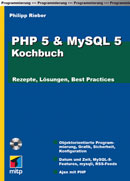
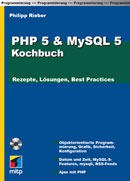
Fix cover edges with drop-shadow and trimmed scans, update job title

diff --git a/public/index.html b/public/index.html
@@ -74,7 +74,7 @@
         <div class="row">
           <h2 class="row__head">Jobs</h2>
           <div class="row__body prose">
-            <p>I’m working as a Senior Software Engineer at <a href="https://ottonova.de/" rel="noopener">ottonova</a>, the first digital private health insurance in Germany. Before that, I worked at Paymill (payments) and at <a href="http://inviqa.com/" rel="noopener">Inviqa</a> (agency). I evaluated an InsurTech startup idea at <a href="https://www.werk1.com/" rel="noopener">WERK1</a> and worked for seven years as a web developer, team lead and deputy managing director of an internet agency (Onemedia GmbH). I also advise and support a few other projects.</p>
+            <p>I’m working as a Staff Software Engineer at <a href="https://ottonova.de/" rel="noopener">ottonova</a>, the first digital private health insurance in Germany. Before that, I worked at Paymill (payments) and at <a href="http://inviqa.com/" rel="noopener">Inviqa</a> (agency). I evaluated an InsurTech startup idea at <a href="https://www.werk1.com/" rel="noopener">WERK1</a> and worked for seven years as a web developer, team lead and deputy managing director of an internet agency (Onemedia GmbH). I also advise and support a few other projects.</p>
           </div>
         </div>
       </section>
@@ -275,8 +275,8 @@
             <p class="prose">Every now and then I write articles and books about software development or translate from English. In everyday work I’m also writing a lot for case studies, references or documentation. Occasionally I blog at <a class="nowrap" href="http://blog.philipp-rieber.net" rel="noopener">blog.philipp-rieber.net</a>.</p>
             <ul class="shelf" aria-label="Book and magazine covers">
               <li><a href="https://www.amazon.de/PHP-MySQL-Schnelleinstieg-Programmieren-Vorkenntnisse/dp/3747503950" rel="noopener"><img src="/img/covers/schnelleinstieg-2021.jpg" width="130" height="184" alt="Cover of PHP &amp; MySQL Schnelleinstieg, 2021" loading="lazy" /></a></li>
-              <li><a href="https://entwickler.de/magazine-ebooks/php-magazin/php-magazin-52015" rel="noopener"><img src="/img/covers/phpmagazin-2015-05.jpg" width="130" height="183" alt="Cover of PHPmagazin 5.15" loading="lazy" /></a></li>
-              <li><a href="https://entwickler.de/magazine-ebooks/php-magazin/php-magazin-32015" rel="noopener"><img src="/img/covers/phpmagazin-2015-03.jpg" width="130" height="184" alt="Cover of PHPmagazin 3.15" loading="lazy" /></a></li>
+              <li><a href="https://entwickler.de/magazine-ebooks/php-magazin/php-magazin-52015" rel="noopener"><img src="/img/covers/phpmagazin-2015-05.jpg" width="130" height="182" alt="Cover of PHPmagazin 5.15" loading="lazy" /></a></li>
+              <li><a href="https://entwickler.de/magazine-ebooks/php-magazin/php-magazin-32015" rel="noopener"><img src="/img/covers/phpmagazin-2015-03.jpg" width="130" height="181" alt="Cover of PHPmagazin 3.15" loading="lazy" /></a></li>
               <li><a href="http://discoveringdocker.com/de" rel="noopener"><img src="/img/covers/docker-entdecken.png" width="152" height="184" alt="Cover of Docker Entdecken" loading="lazy" /></a></li>
               <li><a href="http://www.amazon.de/Dynamische-Webseiten-Praxis-JavaScript-Professional/dp/3826617827" rel="noopener"><img src="/img/covers/dynamische-webseiten-2009.jpg" width="130" height="180" alt="Cover of Dynamische Webseiten in der Praxis, 2nd edition, 2009" loading="lazy" /></a></li>
               <li><a href="http://www.amazon.de/PHP-MySQL-Kochbuch-L%C3%B6sungen-Practices/dp/3826616804" rel="noopener"><img src="/img/covers/kochbuch-2007.jpg" width="130" height="181" alt="Cover of PHP5 und MySQL5 – Das Kochbuch, 2007" loading="lazy" /></a></li>

diff --git a/public/styles.css b/public/styles.css
@@ -252,15 +252,15 @@ p.prose + * { margin-top: 1.5rem; }
 .shelf img {
   height: 7.5rem;
   width: auto;
-  border-radius: 2px;
-  box-shadow: 0 1px 2px rgba(35, 32, 28, 0.3), 0 10px 18px -10px rgba(35, 32, 28, 0.5);
+  /* drop-shadow follows the real shape, also for transparent images */
+  filter: drop-shadow(0 1px 1px rgba(35, 32, 28, 0.3)) drop-shadow(0 8px 10px rgba(35, 32, 28, 0.22));
 }
 @media (prefers-reduced-motion: no-preference) {
   .shelf img { transition: transform 0.2s ease; }
   .shelf a:hover img { transform: translateY(-4px); }
 }
 @media (prefers-color-scheme: dark) {
-  .shelf img { box-shadow: 0 1px 2px rgba(0, 0, 0, 0.6), 0 10px 18px -10px rgba(0, 0, 0, 0.8); }
+  .shelf img { filter: drop-shadow(0 1px 1px rgba(0, 0, 0, 0.6)) drop-shadow(0 8px 10px rgba(0, 0, 0, 0.5)); }
 }
 .shelf + .timeline { margin-top: 2rem; }
 @media (max-width: 40rem) {
